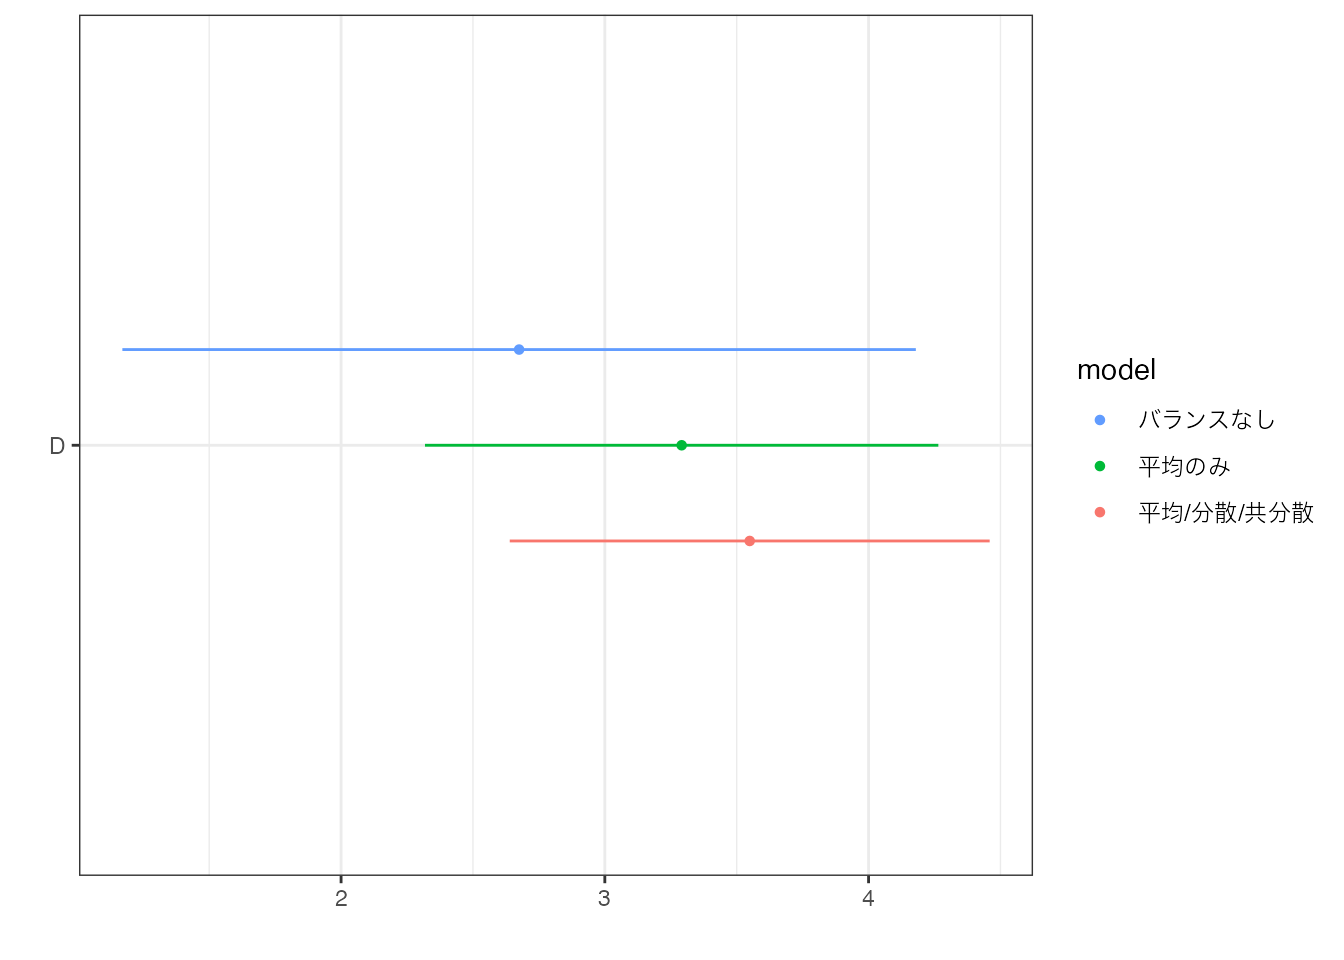
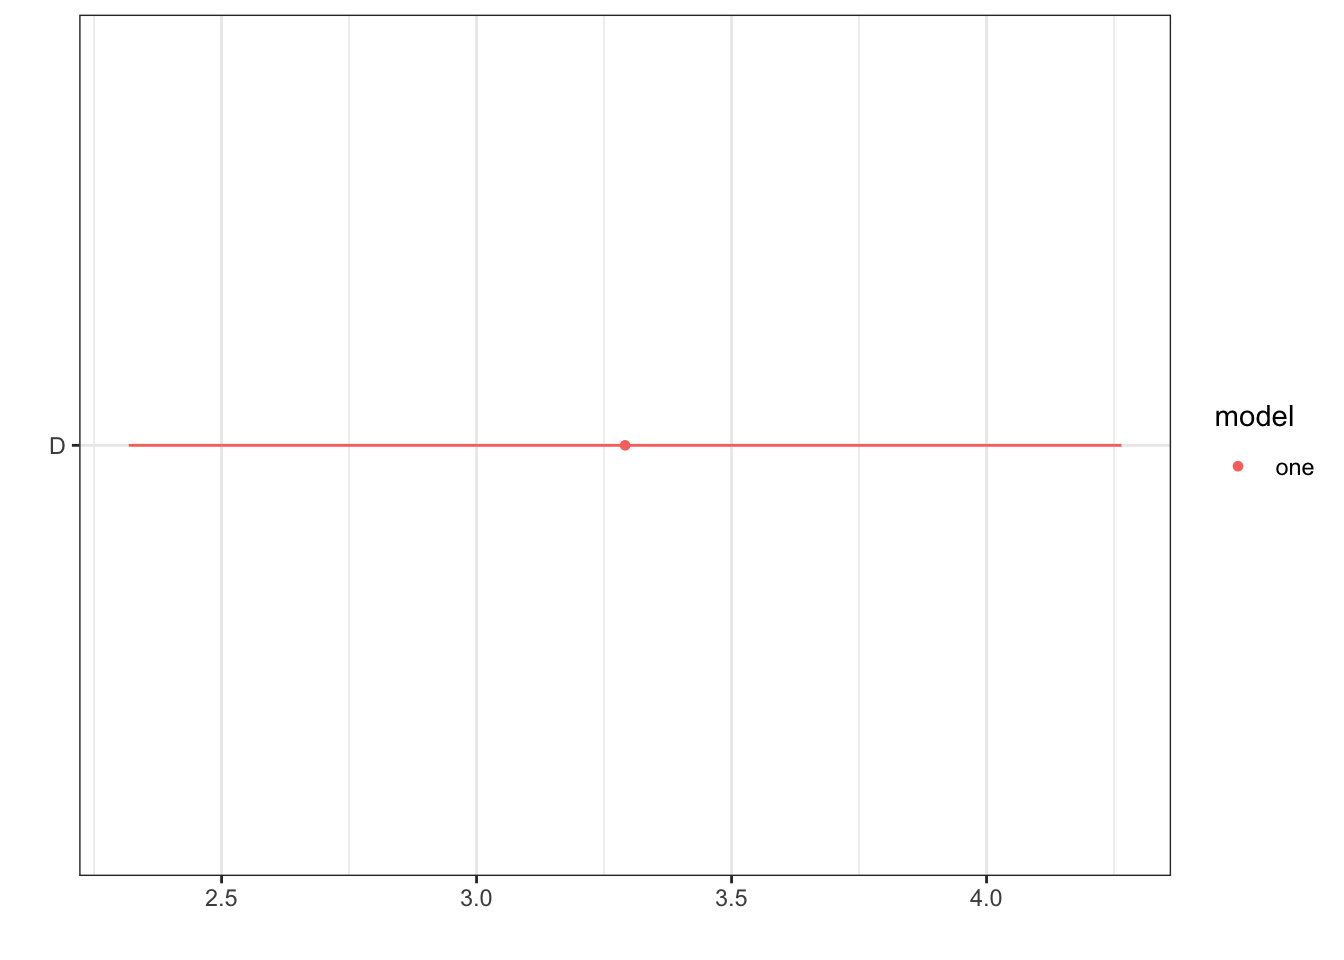
Fix

diff --git a/docs/04OLS.html b/docs/04OLS.html
@@ -314,10 +314,10 @@ OLSの性質 <span class="citation" data-cites="chattopadhyay2023implied">(<a hr
 <p>重回帰による推定は、<span class="math inline">\(D\)</span>間で<span class="math inline">\(X\)</span> の平均値をバランスさせた上で、平均値を比較しています。 また最終的な推定結果の推定誤差に影響を与える、Weightの分散も可能な限り削減しています。</p>
 <section id="例" class="level3" data-number="4.1.1">
 <h3 data-number="4.1.1" class="anchored" data-anchor-id="例"><span class="header-section-number">4.1.1</span> 例</h3>
-<p>部屋の広さ (Size) と 築年数 (Tenure) をバランスさせた後に、2022/2021年の平均取引価格差を推定します。 <span class="math inline">\(Price\sim D + Size + Tenure\)</span> をOLS回帰すると、以下のようなバランスが達成されます。</p>
+<p>部屋の広さ (Size) と 築年数 (Tenure) をバランスさせた後に、2022(<span class="math inline">\(D=1\)</span>)/2021(<span class="math inline">\(D=0\)</span>)年の平均取引価格差を推定します。 <span class="math inline">\(Price\sim D + Size + Tenure\)</span> をOLS回帰すると、以下のようなバランスが達成されます。</p>
 <div class="cell">
 <div class="sourceCode cell-code" id="cb1"><pre class="sourceCode r code-with-copy"><code class="sourceCode r"><span id="cb1-1"><a href="#cb1-1" aria-hidden="true" tabindex="-1"></a>estimatr<span class="sc">::</span><span class="fu">lm_robust</span>(</span>
-<span id="cb1-2"><a href="#cb1-2" aria-hidden="true" tabindex="-1"></a>  Y <span class="sc">~</span> D <span class="sc">+</span> Size <span class="sc">+</span> Tenure, </span>
+<span id="cb1-2"><a href="#cb1-2" aria-hidden="true" tabindex="-1"></a>  Price <span class="sc">~</span> D <span class="sc">+</span> Size <span class="sc">+</span> Tenure, </span>
 <span id="cb1-3"><a href="#cb1-3" aria-hidden="true" tabindex="-1"></a>  Data)</span></code><button title="Copy to Clipboard" class="code-copy-button"><i class="bi"></i></button></pre></div>
 </div>
 <div class="cell">
@@ -338,7 +338,7 @@ OLSの性質 <span class="citation" data-cites="chattopadhyay2023implied">(<a hr
 <p>分散や共分散もバランスさせるためには、二乗項や交差項もモデルに導入したモデル <span class="math inline">\(Price\sim D + Size + Tenure + Size^2 + Tenure^2 + Tenure\times Size\)</span> をOLS推定します。 これによって、Sizeの二乗の”平均値”などもバランスさせることができます。 これは各変数の分散や共分散をバランスを意味します 結果、以下の図の通り、分散や共分散もBalanceします。</p>
 <div class="cell">
 <div class="sourceCode cell-code" id="cb2"><pre class="sourceCode r code-with-copy"><code class="sourceCode r"><span id="cb2-1"><a href="#cb2-1" aria-hidden="true" tabindex="-1"></a>estimatr<span class="sc">::</span><span class="fu">lm_robust</span>(</span>
-<span id="cb2-2"><a href="#cb2-2" aria-hidden="true" tabindex="-1"></a>  Y <span class="sc">~</span> D <span class="sc">+</span> Size <span class="sc">+</span> Tenure <span class="sc">+</span></span>
+<span id="cb2-2"><a href="#cb2-2" aria-hidden="true" tabindex="-1"></a>  Price <span class="sc">~</span> D <span class="sc">+</span> Size <span class="sc">+</span> Tenure <span class="sc">+</span></span>
 <span id="cb2-3"><a href="#cb2-3" aria-hidden="true" tabindex="-1"></a>    <span class="fu">I</span>(Size<span class="sc">^</span><span class="dv">2</span>) <span class="sc">+</span> <span class="fu">I</span>(Tenure<span class="sc">^</span><span class="dv">2</span>) <span class="sc">+</span></span>
 <span id="cb2-4"><a href="#cb2-4" aria-hidden="true" tabindex="-1"></a>    (Size <span class="sc">+</span> Tenure)<span class="sc">**</span><span class="dv">2</span>, </span>
 <span id="cb2-5"><a href="#cb2-5" aria-hidden="true" tabindex="-1"></a>  Data)</span></code><button title="Copy to Clipboard" class="code-copy-button"><i class="bi"></i></button></pre></div>
@@ -352,7 +352,17 @@ OLSの性質 <span class="citation" data-cites="chattopadhyay2023implied">(<a hr
 </div>
 </div>
 </div>
-<p>バランス後の平均差は、通常の</p>
+<p>バランス後の平均差は、通常のOLS推定によって得られる<span class="math inline">\(D\)</span>の係数値となります。 以下では一切の<span class="math inline">\(X\)</span>をバランスさせないケース、SizeとTenureの平均値のみをバランスさせるケース、平均に加えて分散と共分散もバランスさせたケースの推定結果を、信頼区間とともに比較しています。</p>
+<div class="cell">
+<div class="cell-output-display">
+<div>
+<figure class="figure">
+<p><img src="04OLS_files/figure-html/unnamed-chunk-6-1.png" class="img-fluid figure-img" width="672"></p>
+</figure>
+</div>
+</div>
+</div>
+<p>コントロールをしないケースに比べて、SizeやTenureをバランスさせると、より2022年と2021年の平均差が大きくなりました。 一方で、平均値に加えて分散や共分散をバランスさせたとしても、あまり大きな変化は生じませんでした。</p>
 </section>
 <section id="olsの問題点と解決策" class="level2" data-number="4.3">
 <h2 data-number="4.3" class="anchored" data-anchor-id="olsの問題点と解決策"><span class="header-section-number">4.3</span> OLSの問題点と解決策</h2>
@@ -370,7 +380,7 @@ OLSの性質 <span class="citation" data-cites="chattopadhyay2023implied">(<a hr
 <div class="cell-output-display">
 <div>
 <figure class="figure">
-<p><img src="04OLS_files/figure-html/unnamed-chunk-6-1.png" class="img-fluid figure-img" width="672"></p>
+<p><img src="04OLS_files/figure-html/unnamed-chunk-7-1.png" class="img-fluid figure-img" width="672"></p>
 </figure>
 </div>
 </div>
@@ -386,7 +396,7 @@ OLSの性質 <span class="citation" data-cites="chattopadhyay2023implied">(<a hr
 <div class="cell-output-display">
 <div>
 <figure class="figure">
-<p><img src="04OLS_files/figure-html/unnamed-chunk-7-1.png" class="img-fluid figure-img" width="672"></p>
+<p><img src="04OLS_files/figure-html/unnamed-chunk-8-1.png" class="img-fluid figure-img" width="672"></p>
 </figure>
 </div>
 </div>
@@ -449,7 +459,7 @@ OLSの性質 <span class="citation" data-cites="chattopadhyay2023implied">(<a hr
 <div class="cell-output-display">
 <div>
 <figure class="figure">
-<p><img src="04OLS_files/figure-html/unnamed-chunk-9-1.png" class="img-fluid figure-img" width="672"></p>
+<p><img src="04OLS_files/figure-html/unnamed-chunk-10-1.png" class="img-fluid figure-img" width="672"></p>
 </figure>
 </div>
 </div>
@@ -481,7 +491,7 @@ OLSの性質 <span class="citation" data-cites="chattopadhyay2023implied">(<a hr
 <div class="cell-output-display">
 <div>
 <figure class="figure">
-<p><img src="04OLS_files/figure-html/unnamed-chunk-11-1.png" class="img-fluid figure-img" width="672"></p>
+<p><img src="04OLS_files/figure-html/unnamed-chunk-12-1.png" class="img-fluid figure-img" width="672"></p>
 </figure>
 </div>
 </div>
@@ -500,7 +510,7 @@ OLSの性質 <span class="citation" data-cites="chattopadhyay2023implied">(<a hr
 <div class="cell-output-display">
 <div>
 <figure class="figure">
-<p><img src="04OLS_files/figure-html/unnamed-chunk-12-1.png" class="img-fluid figure-img" width="672"></p>
+<p><img src="04OLS_files/figure-html/unnamed-chunk-13-1.png" class="img-fluid figure-img" width="672"></p>
 </figure>
 </div>
 </div>
@@ -512,7 +522,7 @@ OLSの性質 <span class="citation" data-cites="chattopadhyay2023implied">(<a hr
 <div class="cell-output-display">
 <div>
 <figure class="figure">
-<p><img src="04OLS_files/figure-html/unnamed-chunk-13-1.png" class="img-fluid figure-img" width="672"></p>
+<p><img src="04OLS_files/figure-html/unnamed-chunk-14-1.png" class="img-fluid figure-img" width="672"></p>
 </figure>
 </div>
 </div>
